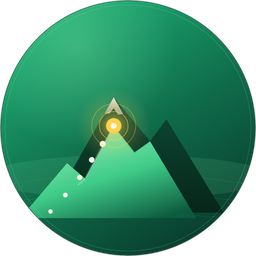
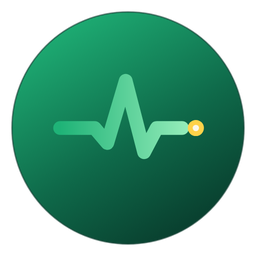
Rebrand to PaceGuard: default server https://paceguard.io
- Display name, manifest/hacs name, config-flow texts, repair issue,
  device manufacturer and README now say PaceGuard; brand icons and the
  README logo are the PaceGuard icon.
- Default server URL is https://paceguard.io.
- Config entry minor version 2: entries on trail-safe.app / api.trailsafe.nl
  move to https://paceguard.io (same backend, same API keys) and the
  entry title is renamed.
- The domain stays "trailsafe" and entity ids keep their
  device_tracker.trailsafe_ prefix, so existing installs, dashboards and
  automations are unaffected.

Tested on HA 2026.9.4: an entry created by v1.1.3.1 and pointed at
https://trail-safe.app migrates to https://paceguard.io with unchanged
entity ids.

diff --git a/custom_components/trailsafe/__init__.py b/custom_components/trailsafe/__init__.py
@@ -1,4 +1,4 @@
-"""Trailsafe GPS Tracker integration for Home Assistant."""
+"""PaceGuard GPS Tracker integration for Home Assistant."""
 
 from __future__ import annotations
 
@@ -9,12 +9,34 @@ from homeassistant.const import Platform
 from homeassistant.core import HomeAssistant
 from homeassistant.helpers import device_registry as dr
 
-from .const import DEFAULT_SCAN_INTERVAL, DOMAIN
+from .const import CONF_SERVER_URL, DEFAULT_SCAN_INTERVAL, DOMAIN
 from .coordinator import TrailsafeCoordinator
 
 PLATFORMS = [Platform.DEVICE_TRACKER]
 
+# The service is PaceGuard now; these older hostnames reach the same backend
+# (same accounts and API keys), so existing entries are moved over.
+LEGACY_SERVER_URLS = {
+    "https://trail-safe.app",
+    "https://www.trail-safe.app",
+    "https://api.trailsafe.nl",
+}
+SERVER_URL = "https://paceguard.io"
+
 type TrailsafeConfigEntry = ConfigEntry[TrailsafeCoordinator]
+
+
+async def async_migrate_entry(hass: HomeAssistant, entry: TrailsafeConfigEntry) -> bool:
+    """1.1 → 1.2: point entries at paceguard.io instead of the Trail-Safe hosts."""
+    if entry.version > 1:
+        return False  # downgrade from a future major version
+    if entry.minor_version < 2:
+        data = dict(entry.data)
+        if data.get(CONF_SERVER_URL, "").rstrip("/") in LEGACY_SERVER_URLS:
+            data[CONF_SERVER_URL] = SERVER_URL
+        title = entry.title.replace("Trail-Safe", "PaceGuard")
+        hass.config_entries.async_update_entry(entry, data=data, title=title, minor_version=2)
+    return True
 
 
 async def async_setup_entry(hass: HomeAssistant, entry: TrailsafeConfigEntry) -> bool:

diff --git a/custom_components/trailsafe/coordinator.py b/custom_components/trailsafe/coordinator.py
@@ -1,4 +1,4 @@
-"""Data update coordinator for Trailsafe."""
+"""Data update coordinator for PaceGuard."""
 
 from __future__ import annotations
 
@@ -65,7 +65,7 @@ class TrailsafeCoordinator(DataUpdateCoordinator[dict[str, dict]]):
                     # Revoked or invalid key: let Home Assistant ask for a new
                     # one (reauth flow) instead of failing silently forever.
                     raise ConfigEntryAuthFailed(
-                        "The Trail-Safe API key is no longer valid"
+                        "The PaceGuard API key is no longer valid"
                     )
                 if resp.status == 403:
                     # The key is fine but the owner's plan no longer includes
@@ -81,9 +81,9 @@ class TrailsafeCoordinator(DataUpdateCoordinator[dict[str, dict]]):
                         translation_key=ISSUE_PAID_PLAN,
                         translation_placeholders={"title": self.config_entry.title},
                     )
-                    raise UpdateFailed("The Trail-Safe plan no longer includes API access")
+                    raise UpdateFailed("The PaceGuard plan no longer includes API access")
                 if resp.status != 200:
-                    raise UpdateFailed(f"Trail-Safe server returned {resp.status}")
+                    raise UpdateFailed(f"PaceGuard server returned {resp.status}")
                 data = await resp.json()
         except (aiohttp.ClientError, TimeoutError) as err:
             raise UpdateFailed(f"Connection error: {err}") from err

diff --git a/custom_components/trailsafe/config_flow.py b/custom_components/trailsafe/config_flow.py
@@ -1,4 +1,4 @@
-"""Config flow for Trailsafe integration."""
+"""Config flow for PaceGuard integration."""
 
 from __future__ import annotations
 
@@ -15,7 +15,7 @@ from homeassistant.helpers.aiohttp_client import async_get_clientsession
 from .const import CONF_API_KEY, CONF_SERVER_URL, DOMAIN
 
 DATA_SCHEMA = vol.Schema({
-    vol.Required(CONF_SERVER_URL, default="https://trail-safe.app"): str,
+    vol.Required(CONF_SERVER_URL, default="https://paceguard.io"): str,
     vol.Required(CONF_API_KEY): str,
 })
 
@@ -43,9 +43,12 @@ async def _probe(hass: HomeAssistant, server_url: str, api_key: str) -> tuple[st
 
 
 class TrailsafeConfigFlow(ConfigFlow, domain=DOMAIN):
-    """Handle a config flow for Trailsafe."""
+    """Handle a config flow for PaceGuard."""
 
     VERSION = 1
+    # 1.2: server URL moved from the Trail-Safe hosts to paceguard.io
+    # (see async_migrate_entry).
+    MINOR_VERSION = 2
 
     async def async_step_user(self, user_input: dict[str, Any] | None = None) -> ConfigFlowResult:
         errors: dict[str, str] = {}
@@ -64,7 +67,7 @@ class TrailsafeConfigFlow(ConfigFlow, domain=DOMAIN):
                 self._abort_if_unique_id_configured()
 
                 return self.async_create_entry(
-                    title=f"Trail-Safe ({plan}, {count} members)",
+                    title=f"PaceGuard ({plan}, {count} members)",
                     data={CONF_SERVER_URL: server_url, CONF_API_KEY: api_key},
                 )
 

diff --git a/custom_components/trailsafe/device_tracker.py b/custom_components/trailsafe/device_tracker.py
@@ -1,4 +1,4 @@
-"""Device tracker platform for Trailsafe."""
+"""Device tracker platform for PaceGuard."""
 
 from __future__ import annotations
 
@@ -66,7 +66,7 @@ async def async_setup_entry(
                 "device_tracker", DOMAIN, f"trailsafe_{key}"
             )
             if entity_id:
-                _LOGGER.info("Removing %s: gone from the Trail-Safe feed for %s", entity_id, STALE_AFTER)
+                _LOGGER.info("Removing %s: gone from the PaceGuard feed for %s", entity_id, STALE_AFTER)
                 registry.async_remove(entity_id)
             tracked.discard(key)
             missing_since.pop(key, None)
@@ -84,7 +84,7 @@ async def async_setup_entry(
 
 
 class TrailsafeTracker(CoordinatorEntity[TrailsafeCoordinator], TrackerEntity):
-    """Represents one Trailsafe device on the map.
+    """Represents one PaceGuard device on the map.
 
     Entities are keyed per device. All devices owned by the same user are
     grouped under a single Home Assistant device (named after the user) via
@@ -139,7 +139,7 @@ class TrailsafeTracker(CoordinatorEntity[TrailsafeCoordinator], TrackerEntity):
         return DeviceInfo(
             identifiers={(DOMAIN, self._user_sub)},
             name=d.get("display_name") or self._display_name,
-            manufacturer="Trail-Safe",
+            manufacturer="PaceGuard",
         )
 
     @property

diff --git a/README.md b/README.md
@@ -1,23 +1,23 @@
 <p align="center">
-  <img src="images/logo.png" alt="Trail-Safe" width="160">
+  <img src="images/logo.png" alt="PaceGuard" width="160">
 </p>
 
-<h1 align="center">Trail-Safe GPS Tracker for Home Assistant</h1>
+<h1 align="center">PaceGuard GPS Tracker for Home Assistant</h1>
 
 <p align="center">
   <a href="https://github.com/hacs/integration"><img src="https://img.shields.io/badge/HACS-Default-41BDF5.svg" alt="HACS"></a>
   <a href="LICENSE"><img src="https://img.shields.io/badge/license-MIT-green.svg" alt="License"></a>
-  <a href="https://trail-safe.app"><img src="https://img.shields.io/badge/Trail--Safe-trail--safe.app-2E7D32.svg" alt="Trail-Safe"></a>
+  <a href="https://paceguard.io"><img src="https://img.shields.io/badge/PaceGuard-paceguard.io-2E7D32.svg" alt="PaceGuard"></a>
 </p>
 
 A Home Assistant custom integration that brings live GPS positions from
-[Trail-Safe](https://trail-safe.app) onto your Home Assistant map. Each
+[PaceGuard](https://paceguard.io) onto your Home Assistant map. Each
 family member appears as a `device_tracker` entity with real-time
 coordinates, accuracy, online state, and SOS alerts.
 
 <!-- TODO: capture from a live Home Assistant instance, then uncomment.
 <p align="center">
-  <img src="images/map-preview.png" alt="Trail-Safe trackers on the Home Assistant map" width="700">
+  <img src="images/map-preview.png" alt="PaceGuard trackers on the Home Assistant map" width="700">
 </p>
 -->
 
@@ -39,7 +39,7 @@ coordinates, accuracy, online state, and SOS alerts.
 | Requirement      | Value                                    |
 |------------------|------------------------------------------|
 | Home Assistant   | 2024.11.0 or later                       |
-| Trail-Safe plan   | Single or Family (Free is not supported) |
+| PaceGuard plan   | Single or Family (Free is not supported) |
 | HACS             | Installed and running                    |
 
 ## Installation
@@ -49,7 +49,7 @@ coordinates, accuracy, online state, and SOS alerts.
 1. Open **HACS** in your Home Assistant.
 2. Go to **Integrations**.
 3. Click **Explore & Download Repositories**.
-4. Search for **Trail-Safe GPS Tracker**.
+4. Search for **PaceGuard GPS Tracker**.
 5. Click **Download**.
 6. Restart Home Assistant.
 
@@ -64,7 +64,7 @@ coordinates, accuracy, online state, and SOS alerts.
 
 ### 1. Create an API key
 
-1. Sign in to the [Trail-Safe dashboard](https://trail-safe.app).
+1. Sign in to the [PaceGuard dashboard](https://paceguard.io).
 2. Switch to the **Integrations** tab (requires a paid plan).
 3. Click **Create key**, give it a name, and copy the token.
 4. The token starts with `ts_` and is shown only once.
@@ -72,21 +72,21 @@ coordinates, accuracy, online state, and SOS alerts.
 ### 2. Add the integration
 
 1. In Home Assistant, go to **Settings > Devices & Services**.
-2. Click **Add Integration** and search for **Trail-Safe**.
-3. Enter your **Server URL** (e.g. `https://trail-safe.app`).
+2. Click **Add Integration** and search for **PaceGuard**.
+3. Enter your **Server URL** (e.g. `https://paceguard.io`).
 4. Paste your **API Key**.
 5. Click **Submit** — the integration validates the key and shows your
    plan and member count.
 
 <!-- TODO: capture from a live Home Assistant instance, then uncomment.
 <p align="center">
-  <img src="images/config-flow.png" alt="Trail-Safe integration setup dialog" width="450">
+  <img src="images/config-flow.png" alt="PaceGuard integration setup dialog" width="450">
 </p>
 -->
 
 ## Entities
 
-A `device_tracker` entity is created **per device**. Because a Trail-Safe
+A `device_tracker` entity is created **per device**. Because a PaceGuard
 member can carry several devices (a Family plan covers up to four devices,
 which may all belong to one person), every device gets its own tracker.
 All of a member's devices are grouped under a single Home Assistant device
@@ -105,9 +105,9 @@ device_tracker.trailsafe_<account>_<device>
 ```
 
 For example `device_tracker.trailsafe_sander_ultra_1`. The `<account>`
-part is your Trail-Safe display name with any email domain stripped, and
-`<device>` is the device's friendly name from Trail-Safe (the per-user
-fallback tracker omits the device part). Rename a device in the Trail-Safe
+part is your PaceGuard display name with any email domain stripped, and
+`<device>` is the device's friendly name from PaceGuard (the per-user
+fallback tracker omits the device part). Rename a device in the PaceGuard
 app to change the `<device>` part — for example, rename a watch that
 reports a raw model code like `L705F` to something friendly.
 
@@ -132,7 +132,7 @@ Each entity exposes:
 |----------------|---------|---------------------------------------------|
 | `user_sub`     | string  | Google account subject identifier of the owner |
 | `device_id`    | string  | Identifier of this specific device (per-device trackers only) |
-| `device_name`  | string  | This device's name from Trail-Safe           |
+| `device_name`  | string  | This device's name from PaceGuard           |
 | `online`       | boolean | True when this device has an active connection |
 | `sos`          | boolean | True when the owner is signalling SOS       |
 | `recorded_at`  | integer | Unix milliseconds of the last GPS fix       |
@@ -153,13 +153,13 @@ automatically — no extra configuration is required.
 ### Default map
 
 The built-in **Map** panel (left sidebar) shows every entity that has a
-location, including your Trail-Safe trackers. Each member appears with an
-accuracy circle and, if an avatar was uploaded in Trail-Safe, their photo
+location, including your PaceGuard trackers. Each member appears with an
+accuracy circle and, if an avatar was uploaded in PaceGuard, their photo
 as the marker.
 
 <!-- TODO: capture from a live Home Assistant instance, then uncomment.
 <p align="center">
-  <img src="images/map-card.png" alt="Trail-Safe map card on a dashboard" width="700">
+  <img src="images/map-card.png" alt="PaceGuard map card on a dashboard" width="700">
 </p>
 -->
 
@@ -169,7 +169,7 @@ To add the trackers to a specific dashboard:
 
 1. Open the dashboard and click **Edit Dashboard** (top-right).
 2. Click **+ Add Card** and choose **Map**.
-3. Under **Entities**, add your Trail-Safe trackers, e.g.
+3. Under **Entities**, add your PaceGuard trackers, e.g.
    `device_tracker.trailsafe_sander_ultra_1`.
 4. Click **Save**.
 
@@ -177,7 +177,7 @@ Or paste the YAML directly:
 
 ```yaml
 type: map
-title: Trail-Safe
+title: PaceGuard
 default_zoom: 12
 hours_to_show: 6
 entities:
@@ -210,7 +210,7 @@ automation:
     action:
       - service: notify.mobile_app
         data:
-          title: "Trail-Safe"
+          title: "PaceGuard"
           message: >
             {{ state_attr('device_tracker.trailsafe_sander_ultra_1',
                'friendly_name') }} went offline 5 minutes ago.
@@ -229,7 +229,7 @@ automation:
     action:
       - service: notify.all_phones
         data:
-          title: "SOS from Trail-Safe"
+          title: "SOS from PaceGuard"
           message: "Emergency signal received. Check the map."
 ```
 
@@ -260,7 +260,11 @@ automation:
   devices with the same name get a short id suffix (new entities only).
   Shared HTTP session. Current HA APIs (ready for HA 2027.6). Dropped
   `entity_picture`: the avatar URL needs a login, so it never loaded.
-  Requires HA 2024.11+.
+  Requires HA 2024.11+. Rebranded to **PaceGuard**: the default server is
+  `https://paceguard.io`, and existing entries pointing at `trail-safe.app`
+  are moved there automatically (same accounts and API keys). Entity ids
+  keep their `device_tracker.trailsafe_…` prefix, so dashboards and
+  automations keep working.
 - **1.1.3.1**: readable entity ids `device_tracker.trailsafe_<account>_<device>`.
 
 ## License

diff --git a/CLAUDE.md b/CLAUDE.md
@@ -1,7 +1,7 @@
-# Agent instructions: Trail-Safe Home Assistant integration
+# Agent instructions: PaceGuard Home Assistant integration
 
-Custom integration `trailsafe` (HACS): one `device_tracker` per Trail-Safe
-device, polled from the Trail-Safe backend with a user API key.
+Custom integration `trailsafe` (HACS): one `device_tracker` per PaceGuard
+device, polled from the PaceGuard backend with a user API key.
 
 ## Where things live
 - **This repo is the source of truth**: `custom_components/trailsafe/`.
